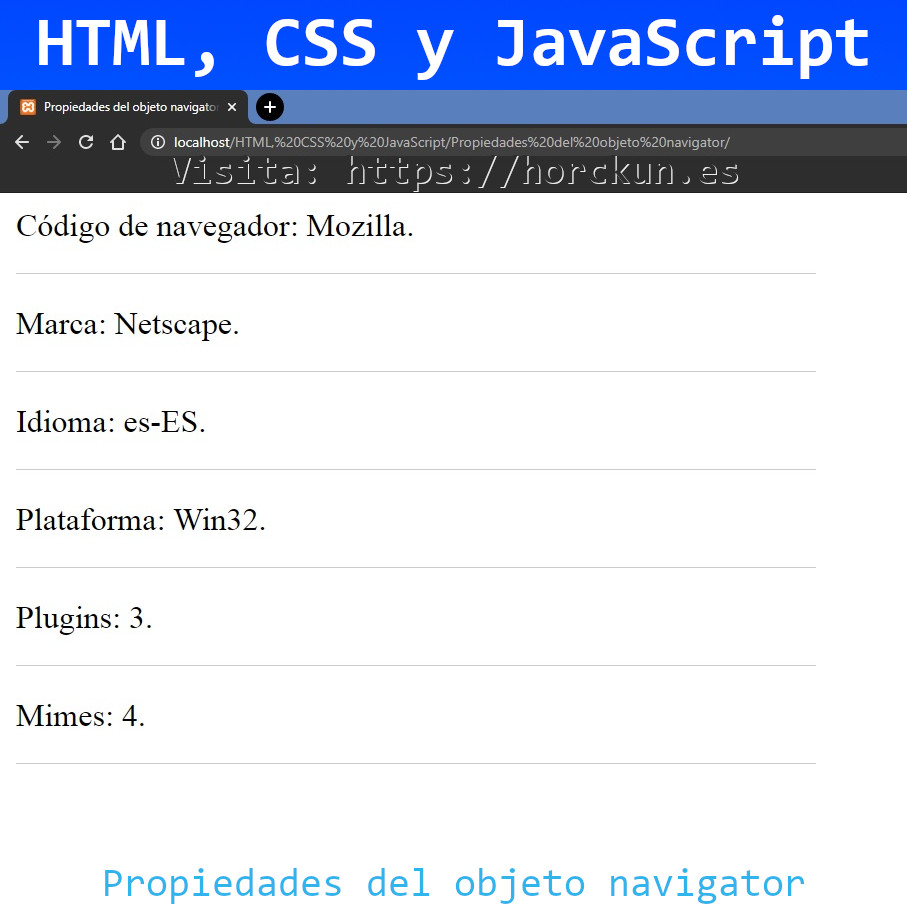
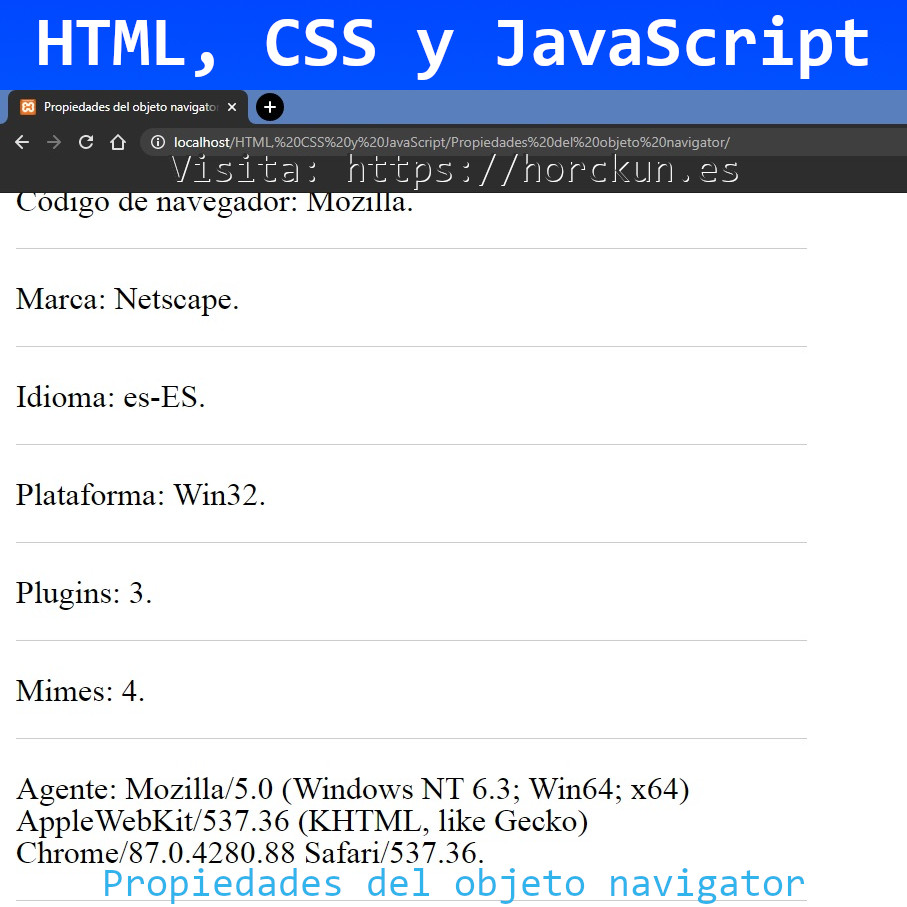
Propiedades del objeto navigator
Propiedades del objeto navigator en JavaScript

diff --git a/HTML, CSS y JavaScript/Propiedades del objeto navigator/js/funciones.js b/HTML, CSS y JavaScript/Propiedades del objeto navigator/js/funciones.js
@@ -34,3 +34,9 @@ var mime = navigator.mimeTypes.length;
 document.write("Mimes: "+mime+".");
 // SEPARACIÓN
 document.write("<hr>");
+// AVERIGUAR AGENTE DEL NAVEGADOR
+var agente = navigator.userAgent;
+// mostrar en pantalla
+document.write("Agente: "+agente+".");
+// SEPARACIÓN
+document.write("<hr>");
